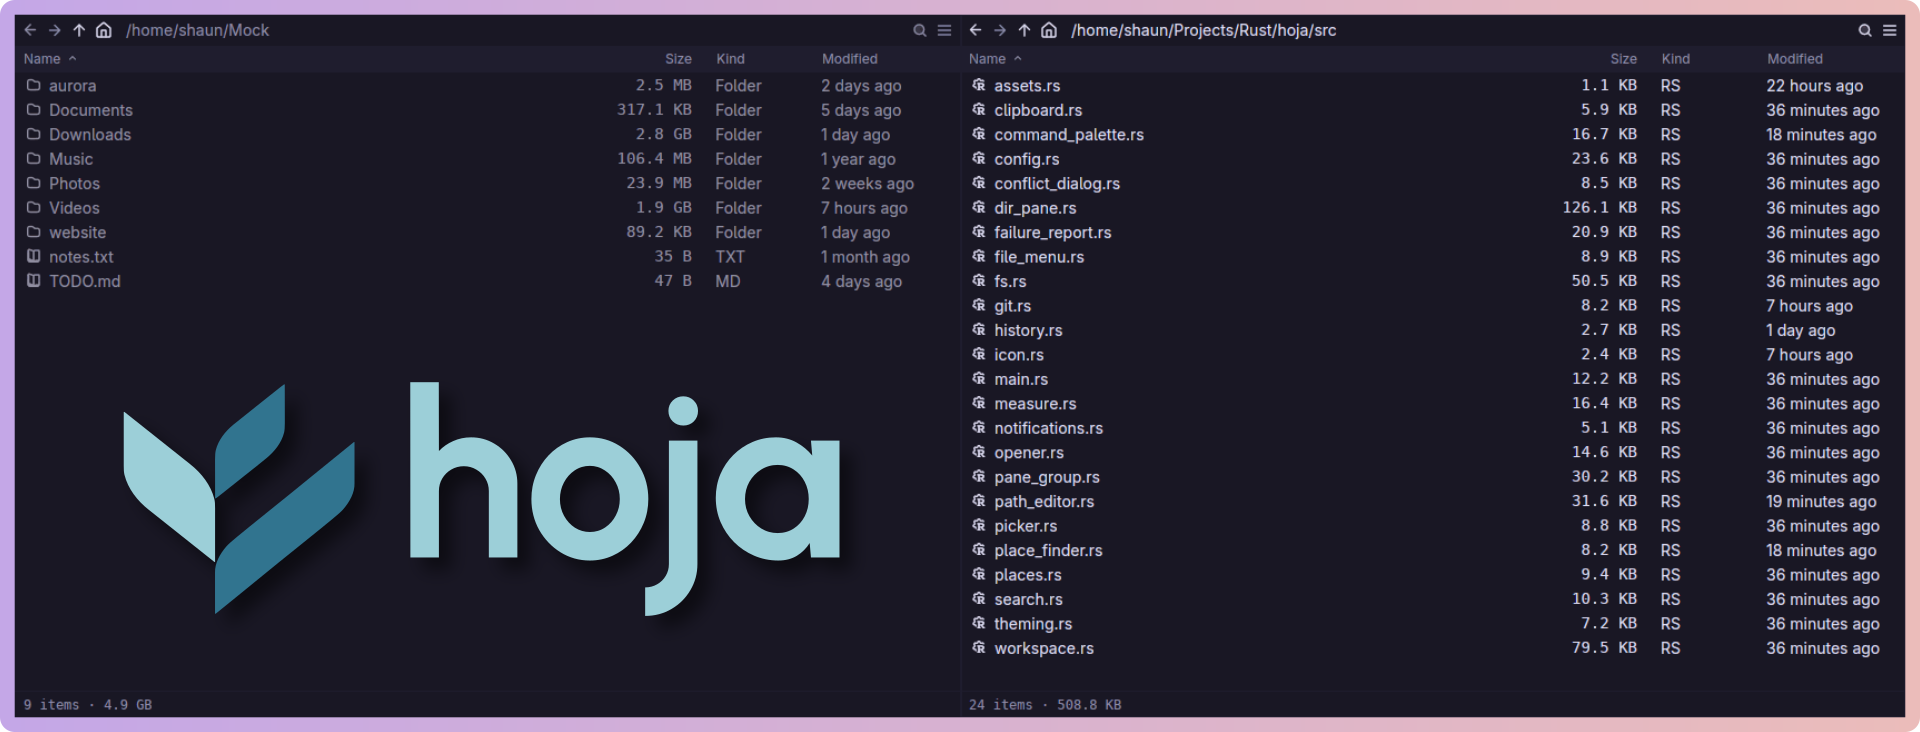
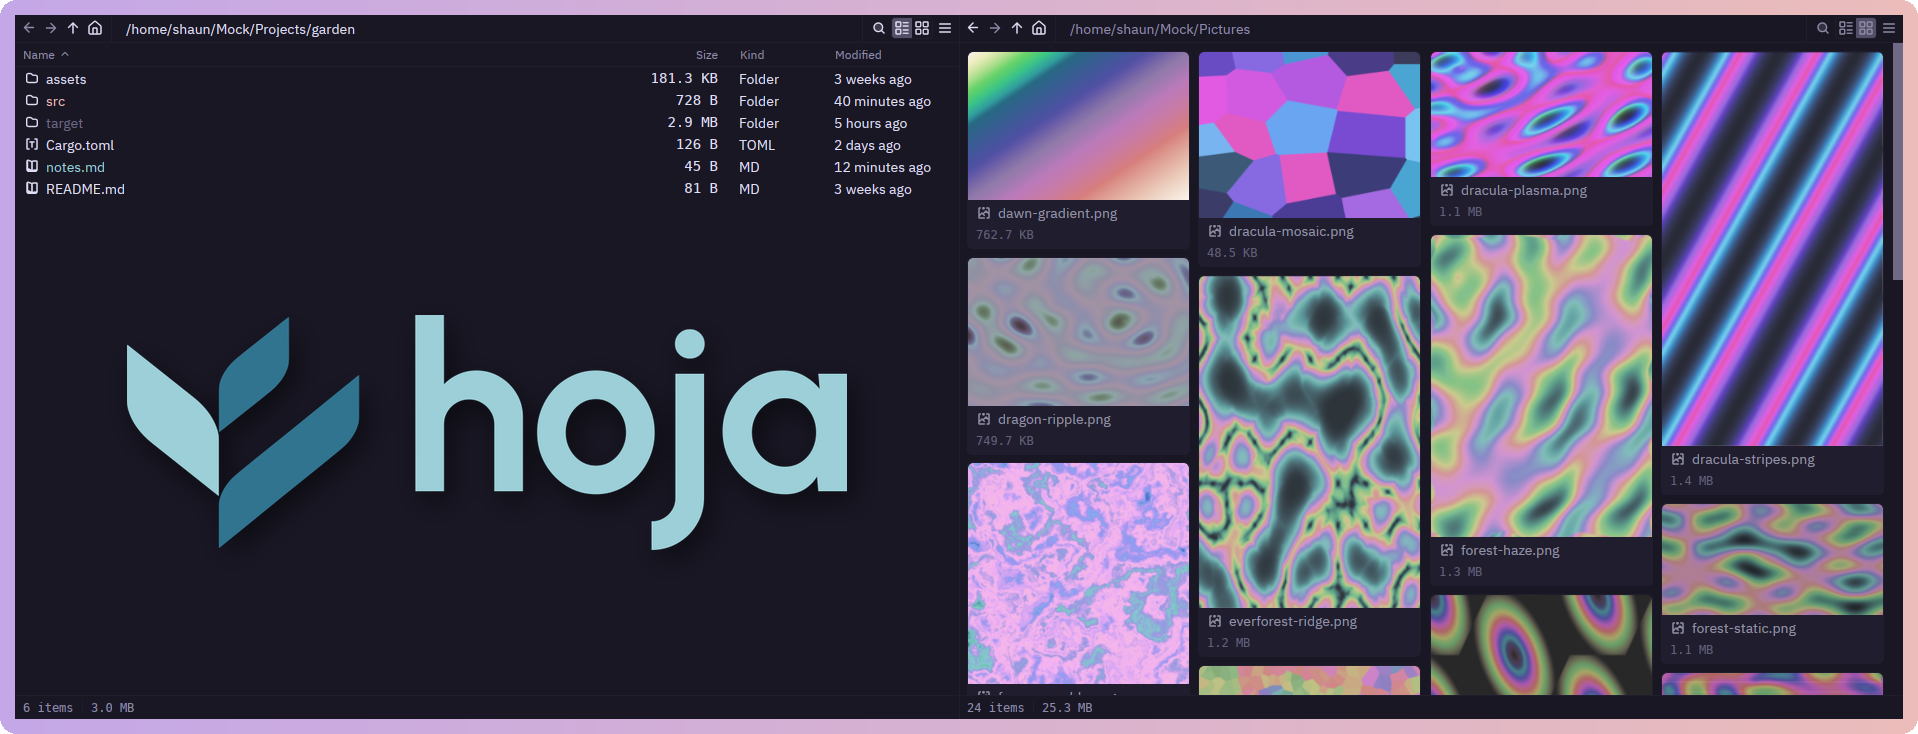
Retake the README's pictures, and keep how they are made
The header is a new two-pane shot: a Rust project as a list with its git
colors on the left, and a folder of pictures as the grid on the right,
with the wordmark and frame as before. Below the warning, two more: a
hover preview of a Rust file with its syntax colors, and the command
palette over the grid.

scripts/readme-shots/run.sh takes all three. It builds a demo home with
24 wallpapers from bgen in mixed shapes and a small project with
uncommitted changes, shoots each through the harness, frames them, and
removes the demo. Nested sway takes its window's size from the host, so
the shots resize that window with hyprctl.

The README also gains the optional packages and what each adds, the
palette's behavior, and the interface icons' license as it now is.
docs/screenshot.png, which nothing showed any more, is gone.

diff --git a/scripts/readme-shots/frame.py b/scripts/readme-shots/frame.py
@@ -1,0 +1,34 @@
+"""frame.py RAW OUT [--logo LOGO X Y WIDTH]: the README's gradient frame."""
+import sys
+from PIL import Image, ImageDraw, ImageFilter
+
+raw, out = sys.argv[1], sys.argv[2]
+win = Image.open(raw).convert("RGBA")
+B, R = 15, 16
+w, h = win.width + 2 * B, win.height + 2 * B
+a, b = (196, 167, 231), (235, 188, 186)  # Rosé Pine iris to rose
+grad = Image.new("RGBA", (w, h))
+px = grad.load()
+for x in range(w):
+    t = x / (w - 1)
+    c = tuple(round(a[i] + (b[i] - a[i]) * t) for i in range(3)) + (255,)
+    for y in range(h):
+        px[x, y] = c
+grad.paste(win, (B, B))
+if "--logo" in sys.argv:
+    i = sys.argv.index("--logo")
+    logo = Image.open(sys.argv[i + 1]).convert("RGBA")
+    x, y, lw = (int(v) for v in sys.argv[i + 2 : i + 5])
+    logo = logo.resize((lw, round(logo.height * lw / logo.width)), Image.LANCZOS)
+    shadow = Image.new("RGBA", logo.size, (0, 0, 0, 0))
+    shadow.putalpha(logo.getchannel("A").point(lambda v: v * 0.55))
+    pad = 40
+    sh = Image.new("RGBA", (logo.width + 2 * pad, logo.height + 2 * pad), (0, 0, 0, 0))
+    sh.paste(shadow, (pad, pad))
+    sh = sh.filter(ImageFilter.GaussianBlur(14))
+    grad.alpha_composite(sh, (B + x - pad + 6, B + y - pad + 10))
+    grad.alpha_composite(logo, (B + x, B + y))
+mask = Image.new("L", (w, h), 0)
+ImageDraw.Draw(mask).rounded_rectangle((0, 0, w - 1, h - 1), R, fill=255)
+grad.putalpha(mask)
+grad.save(out, optimize=True)

diff --git a/README.md b/README.md
@@ -16,6 +16,11 @@ updates, and archive browsing that feels like working with ordinary folders.
 > [!WARNING]
 > Hoja is experimental software. Use at your own risk.
 
+<p>
+  <img src="docs/preview.png" width="49%" alt="A hover preview of a Rust file, with syntax colors">
+  <img src="docs/palette.png" width="49%" alt="The command palette over a grid of pictures">
+</p>
+
 ## Features
 
 ### Panes
@@ -117,7 +122,9 @@ updates, and archive browsing that feels like working with ordinary folders.
   attached drives. Hoja reads the same bookmarks used by GTK file dialogs and
   can mount or eject removable drives.
 - **Command palette.** Press `ctrl-shift-p` to search available commands.
-  Frequently used commands naturally rise to the top.
+  Frequently used commands naturally rise to the top. Each shows its key
+  binding, and the palette looks and behaves like Zed's: the arrow keys
+  move the selection, and a click or `enter` runs the command.
 
 ### Appearance
 
@@ -169,6 +176,19 @@ cd packaging && makepkg -si
 ```
 
 It builds from the current `main`, since there are no releases yet.
+
+### Optional packages
+
+Hoja starts without any of these, and each adds something:
+
+- `ffmpegthumbnailer`, or another freedesktop thumbnailer such as `totem`:
+  pictures of videos.
+- `papers` or `evince`: pictures of PDFs. `poppler` adds a PDF's page count
+  and page shape.
+- `git`: names colored by Git status.
+- `udisks2`: mounting drives from the place finder.
+- `wl-clipboard`, `xdg-utils`, `libnotify` and `shared-mime-info`: the
+  clipboard, opening files, notifications, and the Open With menu.
 
 ### From source
 
@@ -269,6 +289,7 @@ up differently: a method reached only from a debug assertion is live in one and
 not the other.
 
 - [docs/testing.md](docs/testing.md): the nested-sway interface harness and its suites
+- [scripts/readme-shots/](scripts/readme-shots/run.sh): retakes the pictures in this README
 - [docs/architecture.md](docs/architecture.md): the transfer engine and its tests
 - [docs/roadmap.md](docs/roadmap.md): what is planned
 
@@ -281,8 +302,9 @@ the GPL-3.0-or-later license. This is why Hoja uses the GPL.
 
 The included assets have their own licenses:
 
-- The icons Hoja's own interface uses are Lucide, under the ISC license. The
-  file-type icons are Zed's set, which includes brand and language marks
+- The icons Hoja's own interface uses are Zed's, which are Lucide's redrawn,
+  and three more from Lucide in the same style, all under the ISC license.
+  The file-type icons are Zed's set, which includes brand and language marks
   belonging to their own projects. See [assets/icons/LICENSES](assets/icons/LICENSES).
 - The Rosé Pine themes have the MIT license. See
   [assets/themes/rose-pine/LICENSE](assets/themes/rose-pine/LICENSE).

diff --git a/docs/testing.md b/docs/testing.md
@@ -16,8 +16,10 @@ backend Hoja actually ships on. The test script can click rows, send keys, and
 capture the window or just its footer; nothing takes your focus, because every
 one of those tools is scoped to the nested display rather than to whatever the
 real session has focused. `HOJA_TEST_WIDTH` and `HOJA_TEST_HEIGHT` size the
-window, which is how `docs/screenshot.png` is made. `HOJA_TEST_HEADLESS=1` hides
-it, at the cost of keyboard input, which does not reach the app there.
+output when it is headless. Nested, the output takes the size of its window on
+the host, so `scripts/readme-shots/run.sh`, which takes the README's pictures,
+resizes that window with `hyprctl`. `HOJA_TEST_HEADLESS=1` hides it, at the
+cost of keyboard input, which does not reach the app there.
 
 Nested, its window presents to the host as class `wlroots`, so float it at a
 fixed size or a tiling compositor will stretch it and move the rows a test
